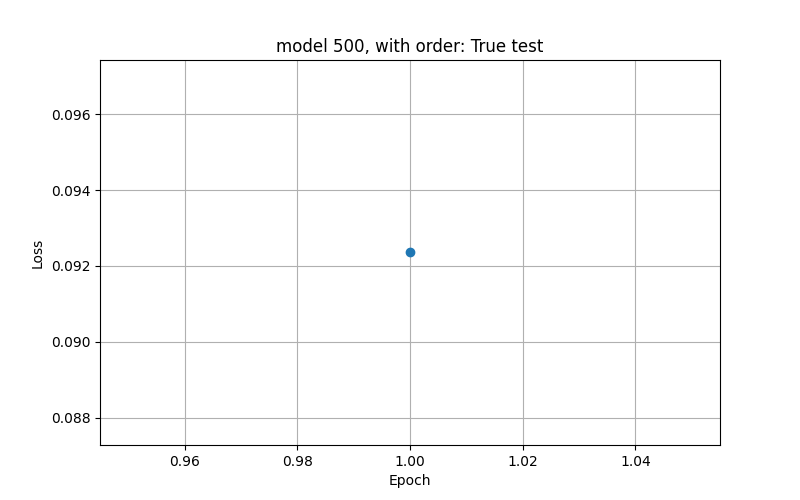
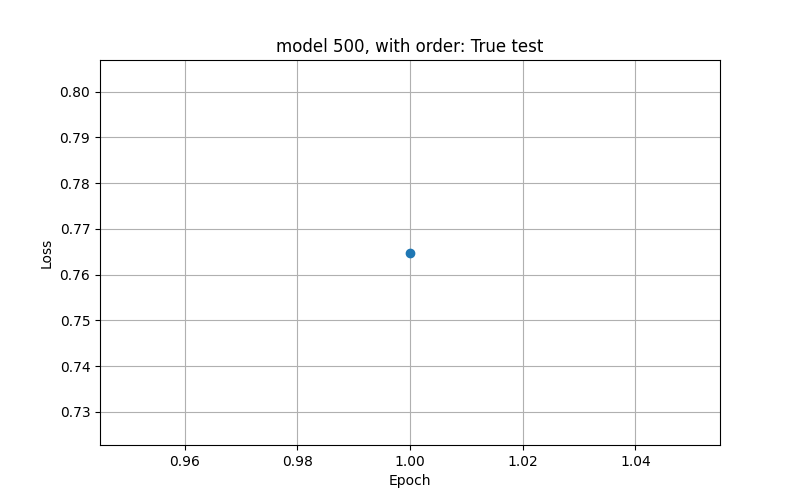
Update inference parameters and adjust model paths for improved performance

diff --git a/code/inference/main.py b/code/inference/main.py
@@ -110,7 +110,7 @@ def get_inference_result(problem_type, instance_idx, model_type, order: bool):
         n_samples = 32
         n_ops = int(torch.count_nonzero(target_assignments))
 
-        timesteps = 100
+        timesteps = 200
         sampling_steps = 60
         ddim_eta = 1.0
 
@@ -127,9 +127,10 @@ def get_inference_result(problem_type, instance_idx, model_type, order: bool):
         t_replace = 995
         # inference_assignments, elapsed, assignments_over_time = inference.adj_inference_ddpm_batch_influence(proc_times, job_ops_adj, ops_ma_adj, adj_model_path, n_samples, mask_h, mask_w, t_replace, ops_sequence_order, valid_h, valid_w, n_ops)
         # === VANLID
-        adj_model_path = f"/cluster/datastore/vemundvb/diffusion/diff_project/mindre_prosjekt/models/mk01/adj_type_adj_order_{order}.pth"
-        #adj_model_path = f"/cluster/datastore/vemundvb/diffusion/diff_project/mindre_prosjekt/models/beta/adj_timestep_100.pth"
-        inference_assignments, elapsed, assignments_over_time = inference.adj_inference_ddpm(proc_times, job_ops_adj, ops_ma_adj, adj_model_path, n_samples, mask_h, mask_w, timesteps, True)
+        #adj_model_path = f"/cluster/datastore/vemundvb/diffusion/diff_project/mindre_prosjekt/models/mk01/adj_type_adj_order_{order}.pth"
+        #adj_model_path = f"/cluster/datastore/vemundvb/diffusion/diff_project/mindre_prosjekt/models/beta/adj_timestep_200.pth"
+        adj_model_path = f"/cluster/datastore/vemundvb/diffusion/diff_project/mindre_prosjekt/models/beta/adj_timestep_200.pth"
+        inference_assignments, elapsed, assignments_over_time = inference.adj_inference_ddpm(proc_times, job_ops_adj, ops_ma_adj, adj_model_path, n_samples, mask_h, mask_w, timesteps, False)
         eta = 0.9
         #inference_assignments, elapsed, assignments_over_time = inference.adj_inference_ddim(proc_times, job_ops_adj, ops_ma_adj, adj_model_path, n_samples, mask_h, mask_w, eta, ddim_steps)
         # === GUIDENCE
